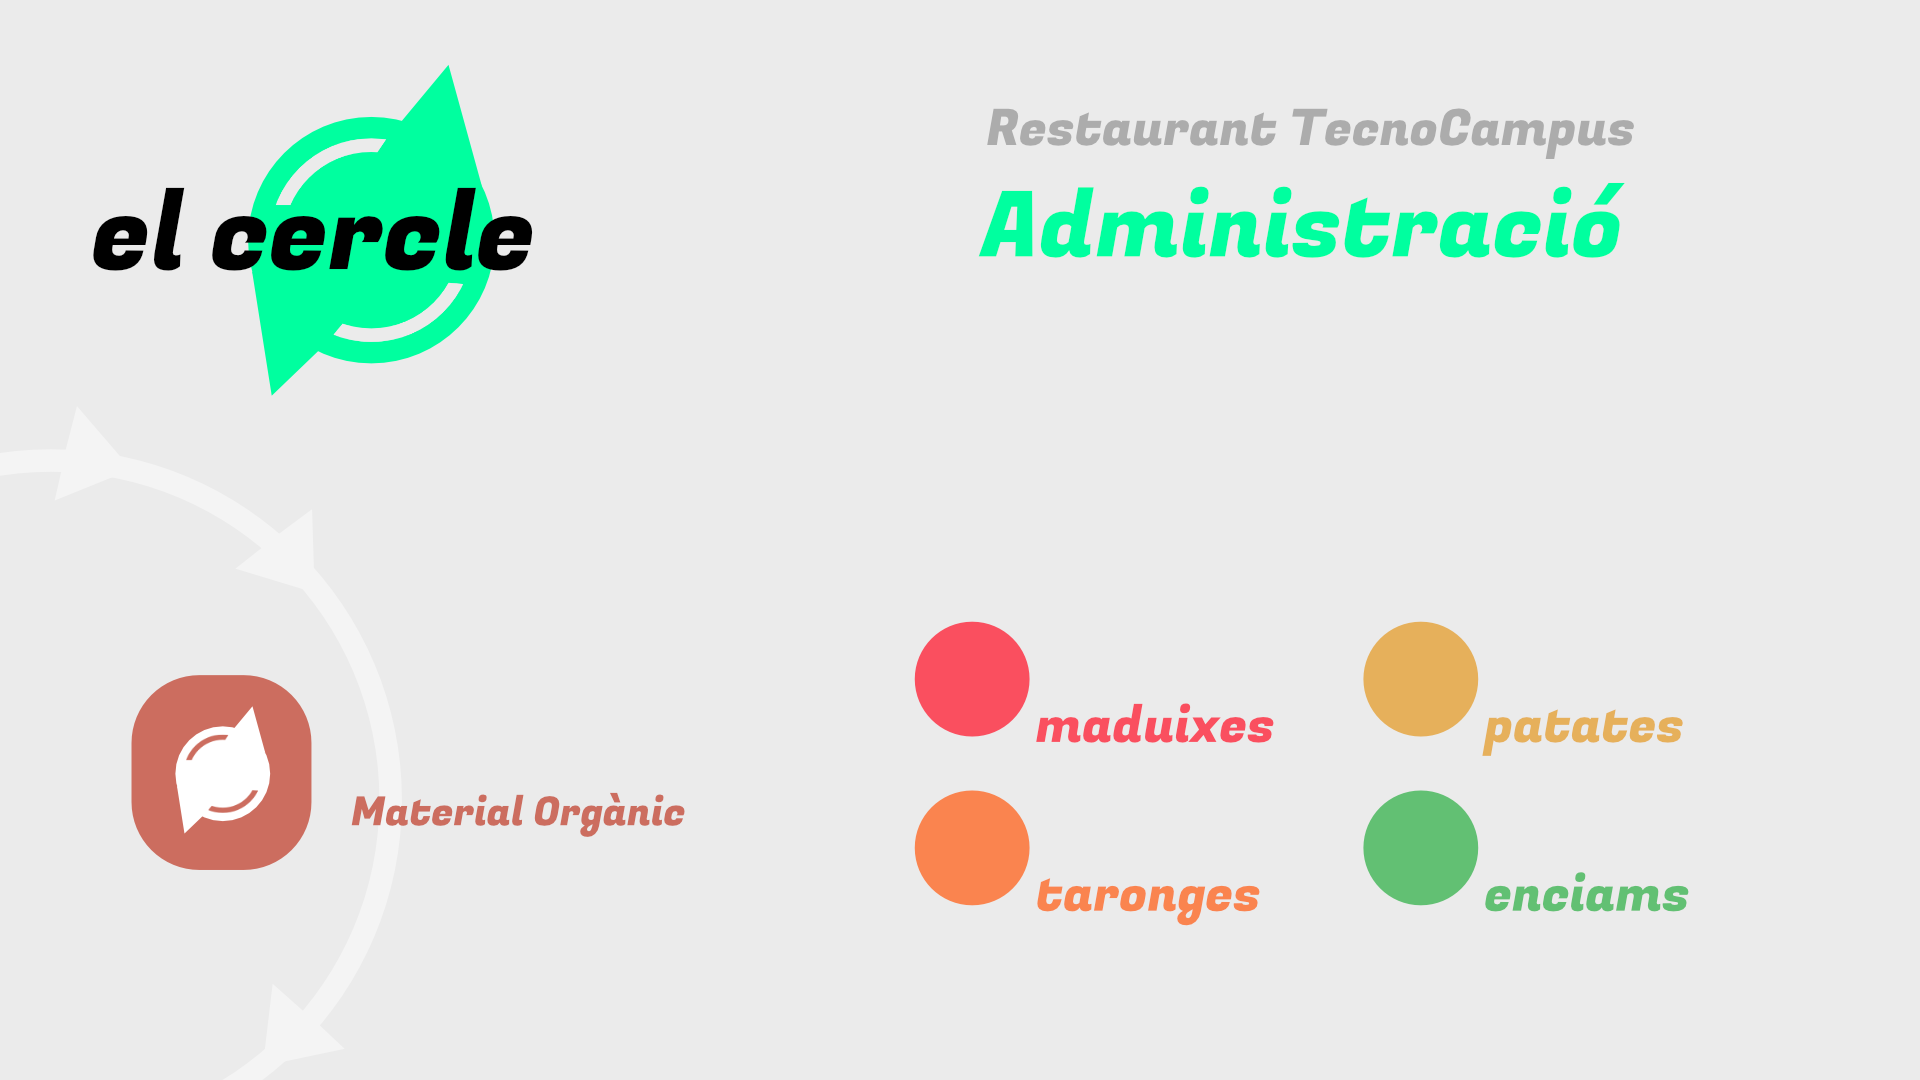
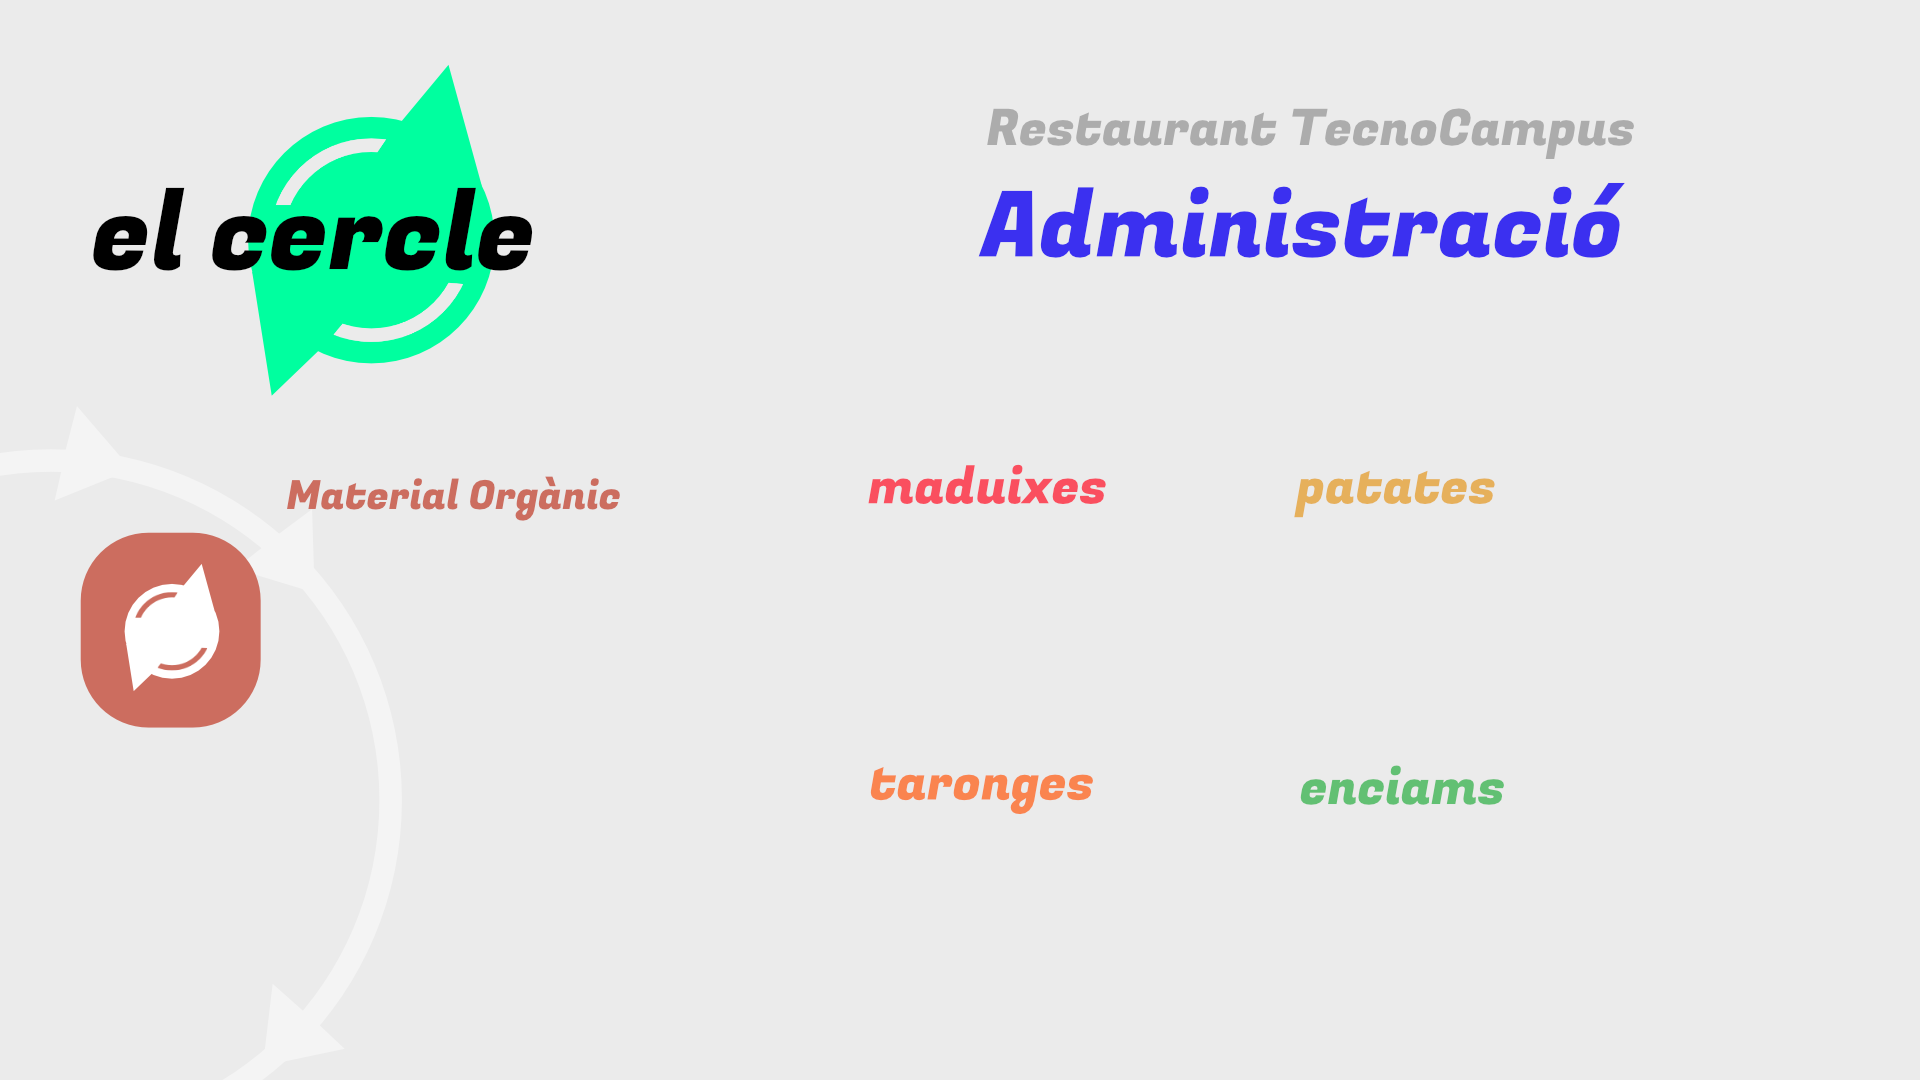
Back office style improved.

diff --git a/web-app/src/main/resources/static/back_office.html b/web-app/src/main/resources/static/back_office.html
@@ -3,7 +3,7 @@
 <head>
     <meta charset="UTF-8">
     <link rel="stylesheet" href="css/style_back_office.css">
-    <link rel="icon" type="image/vnd.microsoft.icon" href="images/el_cercle_favicon.ico">
+    <link rel="icon" type="image/x-icon" href="images/el_cercle_favicon_back_office.ico">
 
     <script src="https://ajax.googleapis.com/ajax/libs/jquery/3.6.0/jquery.min.js"></script>
     <script type="text/javascript" src="js/back_office.js"></script>
@@ -20,7 +20,51 @@
         h3 {
             font-family: "Montserrat ExtraBold", regular;
             color: #212121;
+            font-size: 36px;
+        }
+        .quantity_tag {
+            font-family: "Montserrat ExtraBold", regular;
+            color: #212121;
             font-size: 18px;
+        }
+
+        .add_quantity_btn {
+            font-family: "Montserrat ExtraBold", regular;
+            color: #00FF9F;
+            font-size: 18px;
+            background-color: #ACACAC;
+            border: none;
+            padding: 15px 25px;
+            cursor: pointer;
+            outline: none;
+            color: #fff;
+            border-radius: 15px;
+            box-shadow: 0 9px #00FF9F;
+        }
+
+        .add_quantity_btn:hover {
+            color: #fff;
+            background-color: #00FF9F;
+            box-shadow: 0 9px #CC6D5F;
+        }
+
+        .add_quantity_btn:active {
+            background-color: #00FF9F;
+            box-shadow: 0 5px #CC6D5F;
+            transform: translateY(4px);
+        }
+
+        .cart-plus-minus-box {
+            font-family: "Montserrat ExtraBold", regular;
+            font-size: 25px;
+            background-color: #fff;
+            border: none;
+            padding: 5px 5px;
+            margin: 10px 10px;
+            outline: none;
+            color: #212121;
+            border-radius: 15px;
+            text-align: center;
         }
     </style>
 </head>
@@ -32,7 +76,7 @@
 <img src="/images/background_web_consumer_back_office.png" alt="el_cercle_background_BACK_OFFICE" style="width:100%;">
 <div class="centered" id = "organic_quantity_div">
     <div class="product-action-wrap">
-        <div class="prodict-statas"><span>Quantitat :</span></div>
+        <div class="quantity_tag"><span>Quantitat :</span></div>
         <div class="product-quantity">
             <form id='myform1' method='POST' action='#'>
                 <div class="product-quantity">
@@ -44,14 +88,14 @@
         </div>
     </div>
     <ul class="pro__dtl__btn" id="product_buttons1">
-        <li><button class="buy__now__btn" id="organic_button" type="button" onclick="add_organic()"> Afegir </button></li>
+        <li><button class="add_quantity_btn" id="organic_button" type="button" onclick="add_organic()"> Afegir </button></li>
     </ul>
 </div>
 
 <div class="top-left" id = "strawberries_quantity_div">
 
     <div class="product-action-wrap">
-        <div class="prodict-statas"><span>Quantitat :</span></div>
+        <div class="quantity_tag"><span>Quantitat :</span></div>
         <div class="product-quantity">
             <form id='myform' method='POST' action='#'>
                 <div class="product-quantity">
@@ -63,7 +107,7 @@
         </div>
     </div>
     <ul class="pro__dtl__btn" id="product_buttons">
-        <li><button class="buy__now__btn" id="strawberries_button" type="button" onclick="add_strawberries()"> Afegir </button></li>
+        <li><button class="add_quantity_btn" id="strawberries_button" type="button" onclick="add_strawberries()"> Afegir </button></li>
     </ul>
 
 
@@ -73,7 +117,7 @@
 
 <div class="top-right" id = "potatoes_quantity_div">
     <div class="product-action-wrap">
-        <div class="prodict-statas"><span>Quantitat :</span></div>
+        <div class="quantity_tag"><span>Quantitat :</span></div>
         <div class="product-quantity">
             <form id='myform3' method='POST' action='#'>
                 <div class="product-quantity">
@@ -85,13 +129,13 @@
         </div>
     </div>
     <ul class="pro__dtl__btn" id="product_buttons3">
-        <li><button class="buy__now__btn" id="potatoes_button" type="button" onclick="add_potatoes()"> Afegir </button></li>
+        <li><button class="add_quantity_btn" id="potatoes_button" type="button" onclick="add_potatoes()"> Afegir </button></li>
     </ul>
 </div>
 
 <div class="bottom-left" id = "oranges_quantity_div">
         <div class="product-action-wrap">
-            <div class="prodict-statas"><span>Quantitat :</span></div>
+            <div class="quantity_tag"><span>Quantitat :</span></div>
             <div class="product-quantity">
                 <form id='myform4' method='POST' action='#'>
                     <div class="product-quantity">
@@ -103,13 +147,13 @@
             </div>
         </div>
         <ul class="pro__dtl__btn" id="product_buttons4">
-            <li><button class="buy__now__btn" id="oranges_button" type="button" onclick="add_oranges()"> Afegir </button></li>
+            <li><button class="add_quantity_btn" id="oranges_button" type="button" onclick="add_oranges()"> Afegir </button></li>
         </ul>
 </div>
 
 <div class="bottom-right" id = "lettuces_quantity_div">
         <div class="product-action-wrap">
-            <div class="prodict-statas"><span>Quantitat :</span></div>
+            <div class="quantity_tag"><span>Quantitat :</span></div>
             <div class="product-quantity">
                 <form id='myform5' method='POST' action='#'>
                     <div class="product-quantity">
@@ -121,7 +165,7 @@
             </div>
         </div>
         <ul class="pro__dtl__btn" id="product_buttons5">
-            <li><button class="buy__now__btn" id="lettuces_button" type="button" onclick="add_lettuces()"> Afegir </button></li>
+            <li><button class="add_quantity_btn" id="lettuces_button" type="button" onclick="add_lettuces()"> Afegir </button></li>
         </ul>
 </div>
 

diff --git a/web-app/src/main/resources/static/css/style_back_office.css b/web-app/src/main/resources/static/css/style_back_office.css
@@ -10,31 +10,31 @@ img{
 
 .bottom-left {
     position: absolute;
-    bottom: -10%;
-    left: 54%;
+    bottom: -22%;
+    left: 45%;
 }
 
 .top-left {
     position: absolute;
-    top: 62%;
-    left: 54%;
+    top: 59%;
+    left: 45%;
 }
 
 .top-right {
     position: absolute;
-    top: 62%;
+    top: 59%;
     right: 12%;
 }
 
 .bottom-right {
     position: absolute;
-    bottom: -10%;
+    bottom: -22%;
     right: 12%;
 }
 
 .centered {
     position: absolute;
-    top: 70%;
+    top: 76%;
     left: 25%;
     transform: translate(-50%, -50%);
 }

diff --git a/web-app/src/main/resources/static/index.html b/web-app/src/main/resources/static/index.html
@@ -2,7 +2,7 @@
 <html>
 <head>
     <link rel="stylesheet" href="css/style.css">
-    <link rel="icon" type="image/vnd.microsoft.icon" href="images/el_cercle_favicon.ico">
+    <link rel="icon" type="image/x-icon" href="images/el_cercle_favicon.ico">
 
     <script src="https://ajax.googleapis.com/ajax/libs/jquery/3.6.0/jquery.min.js"></script>
     <script type="text/javascript" src="js/index.js"></script>
